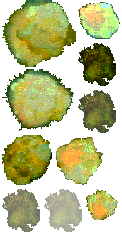
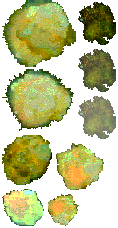
improved loader and cleanup

diff --git a/src/Anim.ts b/src/Anim.ts
@@ -60,8 +60,8 @@ export default class Anim {
   }
 
   /**
-   * @name s
-   * @description x position setter
+   * @name y
+   * @description y position setter
    */
   set y(y: number) {
     this.currentY = y;
@@ -154,25 +154,21 @@ export default class Anim {
    * @name loadSequence
    * @description load a new animation sequence
    * @param {string} name - name of sequence
-   * @param {string} path - path to sequence asset
-   * @param {ICallback} postLoadHandler - callback on load
+   * @param {object} resources - loaded resources
    * @return {void}
    */
-  loadSequence(name: string, path: string, postLoadHandler: ICallback): void {
-    PIXI.loader.add(path).load();
-    PIXI.loader.once('complete', () => {
-      let sheet = PIXI.loader.resources[path].spritesheet;
-      if (sheet) {
-        let sequence = new AnimatedSprite(sheet.animations[name]);
-        sequence.renderable = false;
-        this.animationSequence[name] = {
-          name,
-          sequence
-        };
-        this.stage.addChild(sequence);
-      }
-      postLoadHandler();
-    });
+  loadSequence(name: string, resources: any): void {
+    let path: string = `${name}.json`;
+    let sheet = resources[path].spritesheet;
+    if (sheet) {
+      let sequence = new AnimatedSprite(sheet.animations[name]);
+      sequence.visible = false;
+      this.animationSequence[name] = {
+        name,
+        sequence
+      };
+      this.stage.addChild(sequence);
+    }
   }
 
   /**
@@ -184,13 +180,35 @@ export default class Anim {
    */
   play(sequenceName: string, loop: boolean = false): void {
     if (this.lastSequenceName) {
-      this.animationSequence[this.lastSequenceName].sequence.renderable = false;
+      this.animationSequence[this.lastSequenceName].sequence.visible = false;
     }
     this.lastSequenceName = sequenceName;
     this.currentSequenceName = sequenceName;
     this.currentSequence = this.animationSequence[this.currentSequenceName].sequence;
-    this.currentSequence.renderable = true;
+    this.currentSequence.visible = true;
     this.currentSequence.loop = loop;
-    this.currentSequence.play();
+    this.currentSequence.x = this.x;
+    this.currentSequence.y = this.y;
+    this.currentSequence.rotation = this.rotation;
+    this.currentSequence.animationSpeed = this.animSpeed;
+    this.currentSequence.anchor.set(this.animAnchor);
+    this.currentSequence.pivot.set(this.animPivot);
+    this.currentSequence.gotoAndPlay(0);
+  }
+
+  /**
+   * @name destroy
+   * @description destroys anim and all sequences
+   * @return {void}
+   */
+  destroy(): void {
+    for (let animSequence of this.animationSequence) {
+      animSequence.sequence.visible = false;
+      animSequence.sequence.destroy({
+        children: true,
+        texture: false,
+        baseTexture: false
+      });
+    }
   }
 }

diff --git a/src/TestScene.ts b/src/TestScene.ts
@@ -1,10 +1,12 @@
 import * as PIXI from 'pixi.js';
 import Scene from './Scene';
 import Anim from './Anim';
+import { setInterval } from 'timers';
 
 export default class TestScene extends Scene {
   private turetAnim: Anim;
   private explosionAnim: Anim;
+  private timer: any;
 
   /**
    * @name constructor
@@ -15,21 +17,29 @@ export default class TestScene extends Scene {
     super(app);
 
     this.turetAnim = new Anim(this);
-    this.turetAnim.loadSequence('turet', 'turet.json', () => {
+    this.explosionAnim = new Anim(this);
+
+    this.assetLoader([
+      'turet.json',
+      'explode.json'
+    ], (_loader, resources) => {
+      this.turetAnim.loadSequence('turet', resources);
+      this.explosionAnim.loadSequence('explode', resources);
+
       this.turetAnim.x = 400;
       this.turetAnim.y = 400;
       this.turetAnim.anchor = 0.5;
-      this.turetAnim.animationSpeed = 0.1;
       this.turetAnim.play('turet', false);
 
-      this.explosionAnim = new Anim(this);
-      this.explosionAnim.loadSequence('explode', 'explode.json', () => {
-        this.explosionAnim.x = 300;
-        this.explosionAnim.y = 300;
-        this.explosionAnim.anchor = 0.5;
-        this.explosionAnim.animationSpeed = 0.4;
-        this.explosionAnim.play('explode', true);
-      });
+      this.explosionAnim.x = 400;
+      this.explosionAnim.y = 400;
+      this.explosionAnim.anchor = 0.5;
+      this.explosionAnim.animationSpeed = .5;
+      this.explosionAnim.play('explode', false);
+
+      this.timer = setInterval(() => {
+        this.explosionAnim.play('explode', false);
+      }, 2000);
     });
   }
 
@@ -39,8 +49,18 @@ export default class TestScene extends Scene {
    *
    */
   update(deltaTime: number): void {
-    this.turetAnim.rotation = this.turetAnim.rotation + (0.1 * deltaTime);
+    this.turetAnim.rotation = this.turetAnim.rotation + (0.02 * deltaTime);
+  }
+
+  /**
+   * @name destroy
+   * @description cleanup
+   * @return {void}
+   */
+  destroy(): void {
+    super.destroy();
+    clearInterval(this.timer);
+    this.turetAnim.destroy();
+    this.explosionAnim.destroy();
   }
 }
-
-

diff --git a/src/Scene.ts b/src/Scene.ts
@@ -1,8 +1,11 @@
 import * as PIXI from 'pixi.js';
 
+interface ICallback { (loader: PIXI.loaders.Loader, resources: {}): void };
+
 export default class Scene {
   public stage: PIXI.Container;
   public ticker: PIXI.ticker.Ticker;
+  private loader: PIXI.loaders.Loader;
 
   /**
    * @name constructor
@@ -12,6 +15,20 @@ export default class Scene {
   constructor(app: PIXI.Application) {
     this.stage = app.stage;
     this.ticker = app.ticker;
+    this.loader = new PIXI.loaders.Loader();
+  }
+
+  /**
+   * @name assetLoader
+   * @description load game assets
+   * @param {string[]} assets - array of asset files
+   * @param {ICallback} postLoaderHandler - handler to call on post load
+   */
+  assetLoader(assets: string[], postLoaderHandler: ICallback): void {
+    for (let asset of assets) {
+      this.loader.add(asset);
+    }
+    this.loader.load(postLoaderHandler);
   }
 
   /**
@@ -27,19 +44,25 @@ export default class Scene {
    * @return {void}
    */
   destroy(): void {
-    this.ticker.stop();
-
     for (let child of this.stage.children) {
       child.visible = false;
-      this.stage.removeChild(child);
     }
 
-    for (let texture in PIXI.utils.TextureCache) {
-      PIXI.utils.TextureCache[texture].destroy(true);
-    };
+    let interval = setInterval(() => {
+      clearInterval(interval);
 
-    // clear internal PIXI texture cache
-    PIXI.loader.reset();
+      this.ticker.stop();
+
+      for (let child of this.stage.children) {
+        this.stage.removeChild(child);
+      }
+
+      for (let texture in PIXI.utils.TextureCache) {
+        PIXI.utils.TextureCache[texture].destroy(true);
+      };
+
+      PIXI.loader.reset();
+    }, 2000);
   }
 }
 
